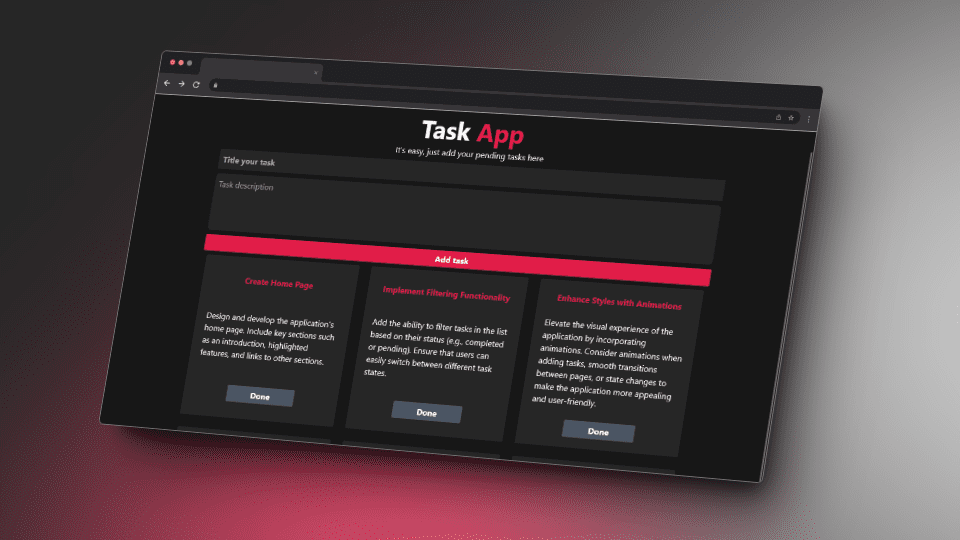
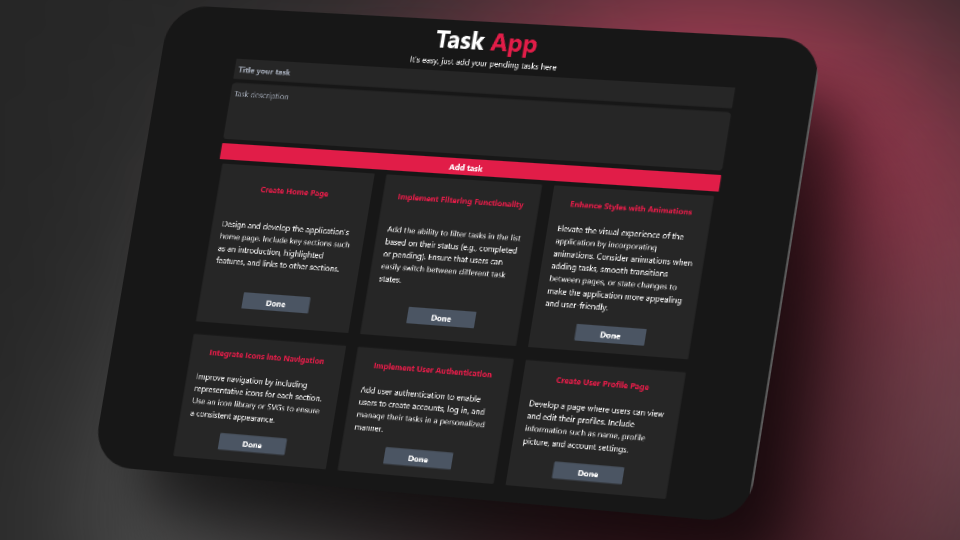
✨ Update  project page and images this section

diff --git a/src/app/work/components/ResponsiveProject/index.jsx b/src/app/work/components/ResponsiveProject/index.jsx
@@ -6,12 +6,42 @@ const projects = [
   {
     title: "Shop Tech",
     src: "/images/projects/shopTech.png",
-    color: "#000000",
+    color: "#060606",
   },
   {
     title: "Pfmanfit",
     src: "/images/projects/pfmanfit.png",
-    color: "#8C8C8C",
+    color: "#48494b",
+  },
+  {
+    title: "Gallery",
+    src: "/images/projects/gallery.png",
+    color: "#d8d3cd",
+  },
+  {
+    title: "Burger Web",
+    src: "/images/works/burgerWeb.png",
+    color: "#e49c4a",
+  },
+  {
+    title: "Loud Proud",
+    src: "/images/LoudProud.png",
+    color: "#534660",
+  },
+  {
+    title: "Shopping Store",
+    src: "/images/projects/shopping.png",
+    color: "#3f4e46",
+  },
+  {
+    title: "Task App",
+    src: "/images/taskApp.png",
+    color: "#e9eaec",
+  },
+  {
+    title: "Hero Portfolio",
+    src: "/images/HeroPortfolio.png",
+    color: "#626e6e",
   },
 ];
 
@@ -25,6 +55,7 @@ const ResponsiveProjects = ({ manageModal }) => {
               image={project.src}
               index={index}
               title={project.title}
+              color={project.color}
               manageModal={manageModal}
               key={index}
             />

diff --git a/src/app/work/components/ResponsiveProject/ProjectSmall/style.module.scss b/src/app/work/components/ResponsiveProject/ProjectSmall/style.module.scss
@@ -2,7 +2,6 @@
   .projectSmall {
     display: flex;
     width: 100%;
-    background-color: #1c1d20;
     margin-bottom: 2rem;
     justify-content: space-between;
     align-items: center;
@@ -10,8 +9,8 @@
     transition: all 0.2s;
 
     img {
-      padding: 5rem 2rem 5rem 2rem;
-      transition: all 300ms;
+      padding: 10rem 2rem 10rem 2rem;
+      transition: all 500ms;
       &:hover {
         transform: scale(1.05);
       }
@@ -20,7 +19,7 @@
 
   h2 {
     font-size: 5rem;
-    margin: 0px;
+    margin-bottom: 1rem;
     font-weight: 550;
     transition: all 0.4s;
     @media (max-width: 1024px) {
@@ -29,14 +28,14 @@
   }
 
   p {
+    font-size: 1.5rem;
     transition: all 0.4s;
-    font-weight: 300;
-    border-bottom: 1px solid rgb(201, 201, 201);
+    font-weight: 500;
+    padding-top: 1rem;
+    border-top: 1px solid rgb(201, 201, 201);
   }
 
   &:hover {
-    opacity: 0.5;
-
     h2 {
       transform: translateX(-1rem);
     }

diff --git a/src/app/work/components/ResponsiveProject/ProjectSmall/index.jsx b/src/app/work/components/ResponsiveProject/ProjectSmall/index.jsx
@@ -3,9 +3,13 @@ import React from "react";
 import styles from "./style.module.scss";
 import Image from "next/image";
 
-export default function index({ index, title, manageModal, image }) {
+export default function index({ index, title, manageModal, image, color }) {
   const originalWidth = 960;
   const originalHeight = 540;
+
+  const containerStyle = {
+    backgroundColor: color,
+  };
 
   return (
     <section className={styles.containerSmallProject}>
@@ -16,7 +20,8 @@ export default function index({ index, title, manageModal, image }) {
         onMouseLeave={(e) => {
           manageModal(false, index, e.clientX, e.clientY);
         }}
-        className={styles.projectSmall}>
+        className={styles.projectSmall}
+        style={containerStyle}>
         <Image
           src={image}
           alt="Image Project Shop Tech"

diff --git a/src/app/work/style.module.scss b/src/app/work/style.module.scss
@@ -11,6 +11,9 @@
       text-wrap: balance;
       padding-left: 6rem;
       letter-spacing: -0.09em;
+      @media (max-width: 768px) {
+        padding: 0;
+      }
     }
   }
 
@@ -20,11 +23,21 @@
     gap: 2rem;
     padding-left: 6rem;
     font-size: 1.5rem;
+    @media (max-width: 768px) {
+      padding: 0;
+    }
   }
 }
 
 .projects {
   padding: 0 10rem;
+  @media (max-width: 1024px) {
+    padding: 0 6rem;
+  }
+
+  @media (max-width: 840px) {
+    padding: 0 3rem;
+  }
 
   .cursor,
   .cursorLabel {

diff --git a/src/app/work/components/ResponsiveProject/style.module.scss b/src/app/work/components/ResponsiveProject/style.module.scss
@@ -1,9 +1,12 @@
 .bodySmall {
-  padding: 0 2rem 0 2rem;
-  display: flex;
-  gap: 2rem;
+  width: 100%;
+  display: grid;
+  grid-template-columns: repeat(2, 1fr);
+  gap: 5rem;
   margin-bottom: 5rem;
-  @media (max-width: 640px) {
+  @media (max-width: 620px) {
+    display: grid;
+    grid-template-columns: 1fr;
     flex-direction: column;
     width: 100%;
     margin-top: 5rem;

diff --git a/src/components/header/style.module.scss b/src/components/header/style.module.scss
@@ -136,6 +136,7 @@
   transform: scale(0);
   position: fixed;
   right: 0px;
+  top: 0;
   z-index: 4;
 
   .button {
